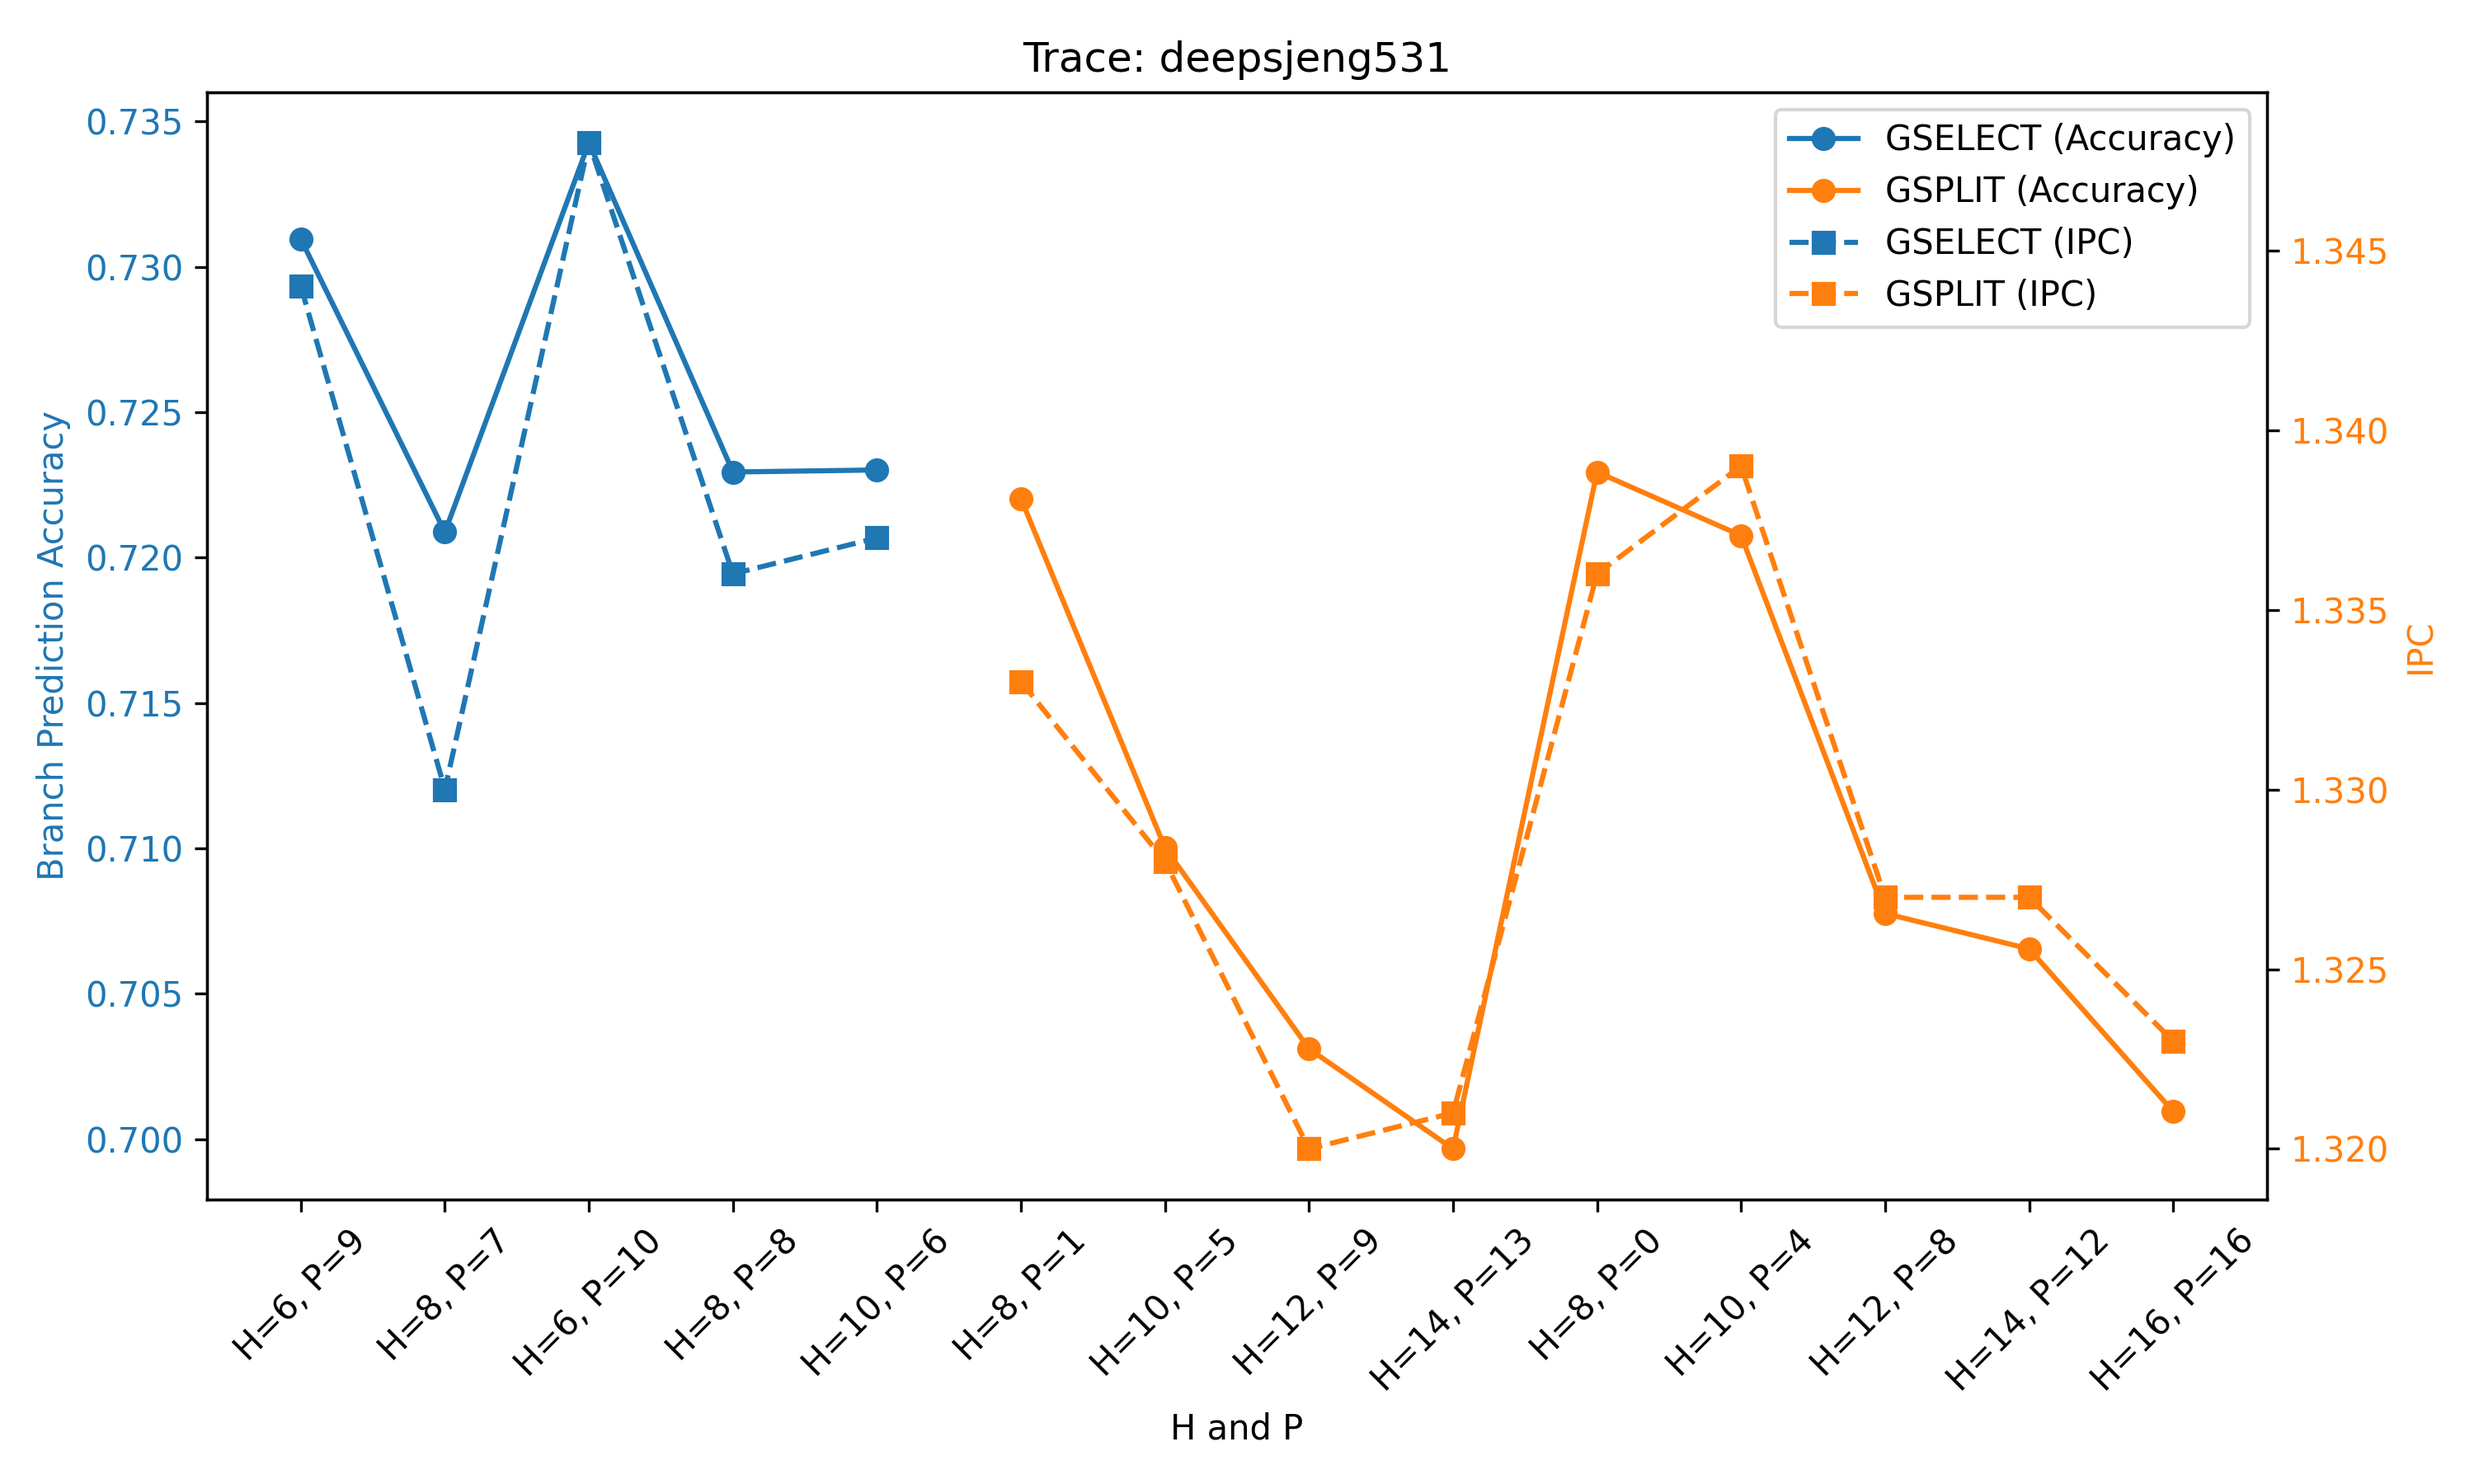
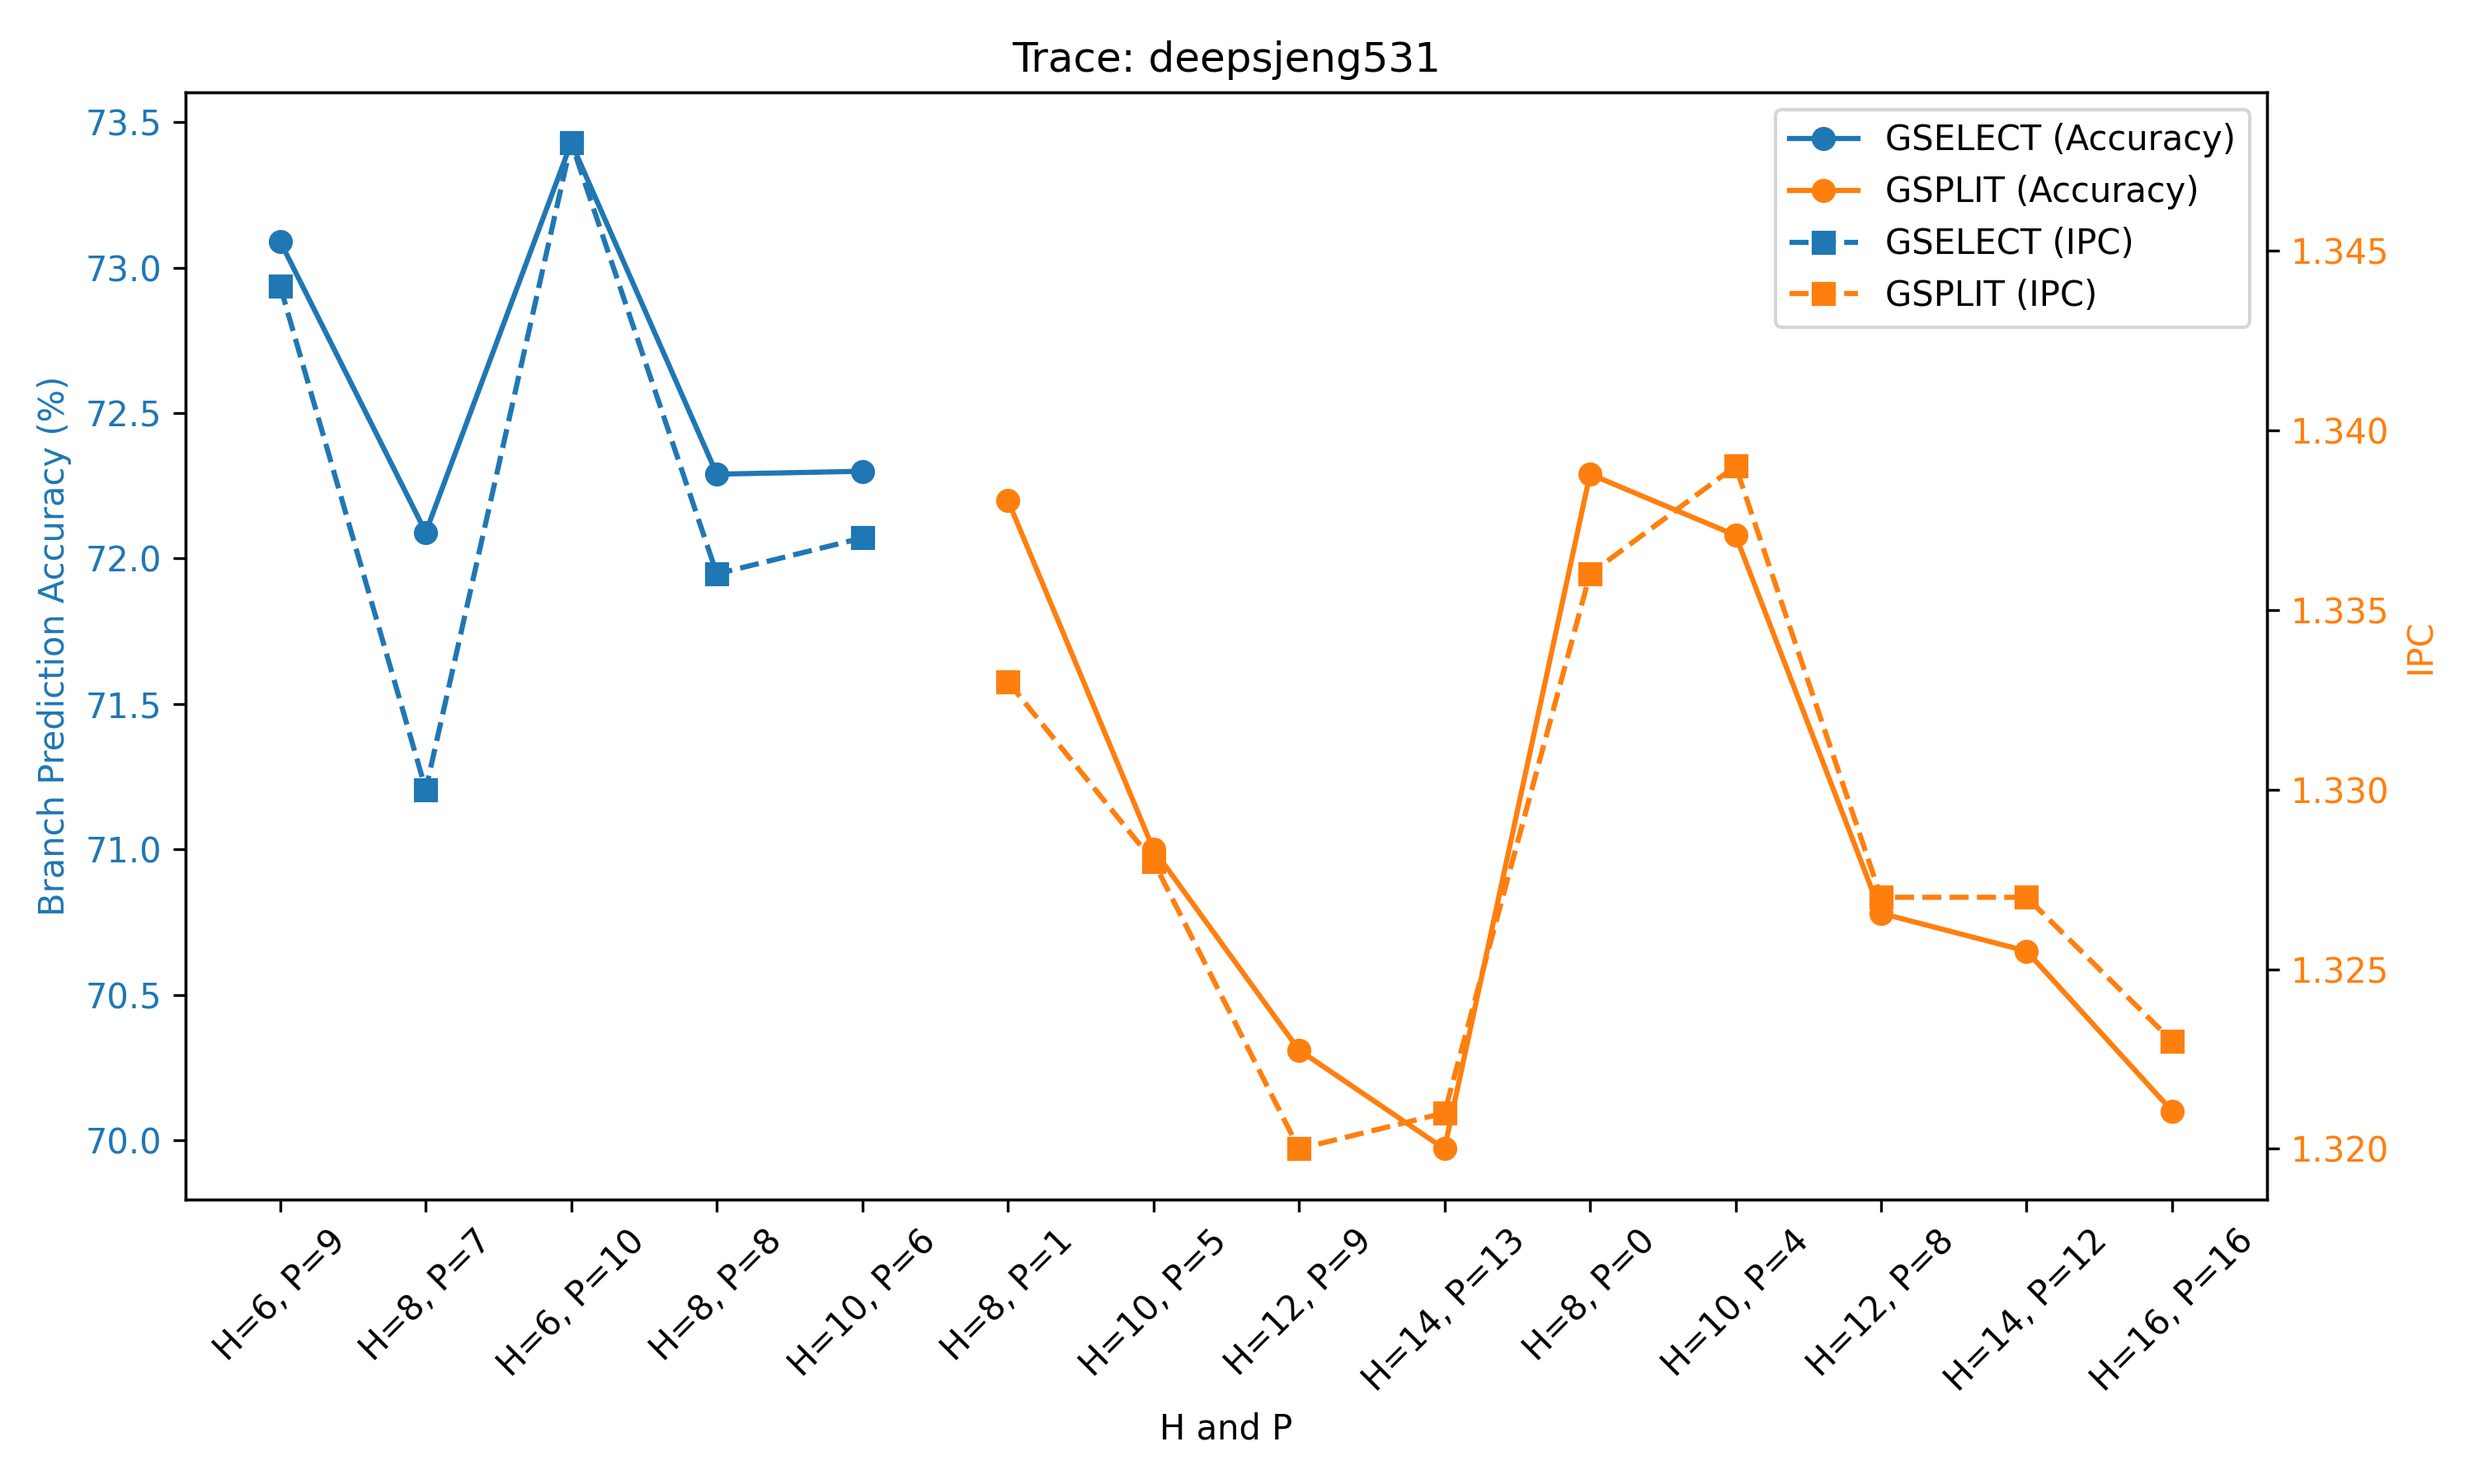
modify the accuracy and ipc dual plot

diff --git a/experiments/optimum_configuration.py b/experiments/optimum_configuration.py
@@ -213,9 +213,12 @@ def plot_gselect_gsplit(df):
         # (df['branch_pattern_table_size'] == 16)
     ].copy()
 
-    filtered_df['Branch Prediction Accuracy'] = (
-        (filtered_df['Total branch instructions'] - filtered_df['Branch Mispredictions']) / 
-        filtered_df['Total branch instructions']
+    filtered_df['Branch Prediction Accuracy'] = round(
+        100 * (
+            (filtered_df['Total branch instructions'] - filtered_df['Branch Mispredictions']) /
+            filtered_df['Total branch instructions']
+        ),
+        2
     )
 
     filtered_df['x_label'] = 'H=' + filtered_df['H'].astype(str) + ', P=' + filtered_df['P'].astype(str)
@@ -236,7 +239,7 @@ def plot_gselect_gsplit(df):
         # Accuracy (left y)
         ax1.plot(gselect['x_label'], gselect['Branch Prediction Accuracy'], marker='o', color='tab:blue', label='GSELECT (Accuracy)')
         ax1.plot(gsplit['x_label'], gsplit['Branch Prediction Accuracy'], marker='o', color='tab:orange', label='GSPLIT (Accuracy)')
-        ax1.set_ylabel('Branch Prediction Accuracy', color='tab:blue')
+        ax1.set_ylabel('Branch Prediction Accuracy (%)', color='tab:blue')
         ax1.tick_params(axis='y', labelcolor='tab:blue')
         ax1.set_xlabel('H and P')
         plt.xticks(rotation=45)
